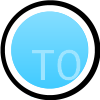
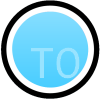
アイコン

diff --git a/taikoonline/index.html b/taikoonline/index.html
@@ -7,7 +7,7 @@
 
     <link
     rel="icon"
-    href="https://kou-ta1230.github.io/img/kou-ta ioco.png"
+    href="https://kou-ta1230.github.io/taikoonline/icon.png"
   />
 
     <title>Home | Taiko Online</title>
